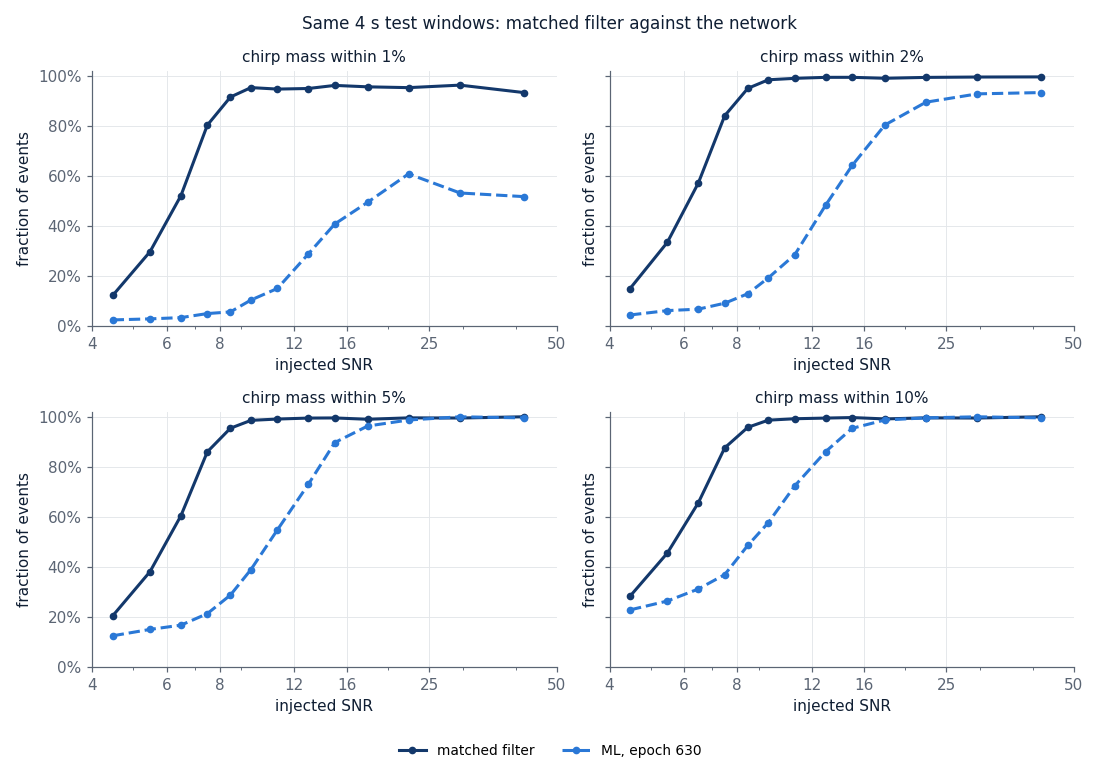
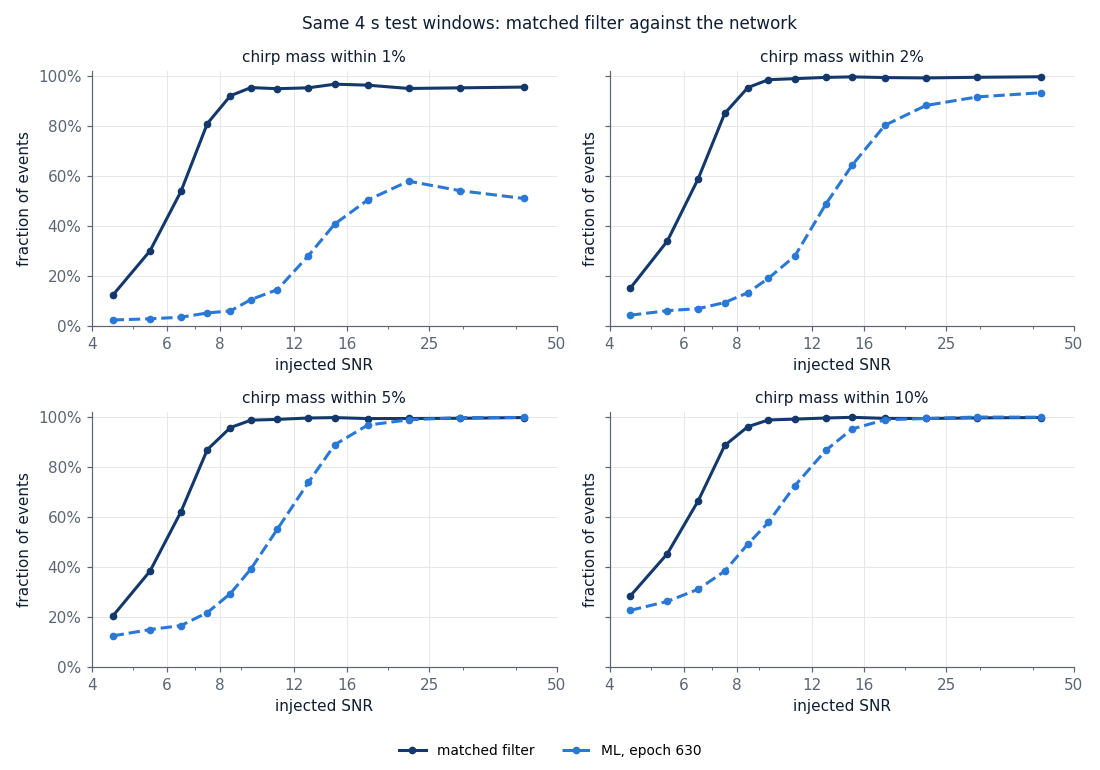
Add the uniform-SNR set to the matched-filter benchmark

diff --git a/docs/_updates/2026-10-07-matched-filter-benchmark.md b/docs/_updates/2026-10-07-matched-filter-benchmark.md
@@ -15,7 +15,7 @@ summary: >-
 
 The test windows were dumped from the network's own test pipeline: whitened
 4 s of H1 and L1 at 2048 Hz, O3b background, half the windows with an
-injection, power-law SNR (index −3) from 4 and from 8. The 630-epoch network
+injection, power-law SNR (index −3) from 4 and from 8, and uniform SNR from 4 to 50. The 630-epoch network
 and a matched filter then ran on exactly the same windows.
 
 - **Bank:** 613 waveforms drawn from the injection waveform set itself,
@@ -37,9 +37,11 @@ pipeline.
    src="/assets/img/bns/2026-10-07/mf_vs_ml_accuracy.png"
    alt="Fraction of events within 1, 2, 5 and 10 percent in chirp mass against injected SNR, matched filter against the network, same scale in every panel"
    label="Chirp mass accuracy against SNR"
-   caption="Both power-law test sets pooled, 12,834 events. Same y scale in every panel." %}
+   caption="All three test sets pooled, 19,251 events. Same y scale in every panel." %}
 
 <div markdown="1">
+
+Power-law sets pooled, 12,834 events:
 
 | SNR | events | matched filter, within 1 / 2 / 5 / 10% | network, within 1 / 2 / 5 / 10% |
 |---|---|---|---|
@@ -53,6 +55,9 @@ pipeline.
 
 </div>
 
+On the uniform set, overall 95% within 2% for the matched filter against 74%
+for the network; at SNR 8 to 12, 98 to 99% against 18 to 24%.
+
 The matched filter's 1% column stops at 95% only because the bank is spaced
 at 0.5% and has three mass ratios. The network never passes about 55% within
 1%, even above SNR 25, so it has a precision ceiling the data does not impose.
@@ -61,7 +66,7 @@ at 0.5% and has three mass ratios. The network never passes about 55% within
    src="/assets/img/bns/2026-10-07/mf_snr.png"
    alt="Left: matched-filter network SNR against injected SNR, median and one-sigma band, equal log axes with the 45 degree line. Right: distribution of the matched-filter score on empty data and on data with a weak signal"
    label="Recovered SNR, and the score on empty data against weak signals"
-   caption="Left: median and 16 to 84% band of the recovered network SNR against the injected SNR, equal axes, dotted line at 45°. Above SNR 10 it tracks the injected value a few percent low (bank and window mismatch); below about 7 it sits on the noise floor of about 6.3. Right: the best network SNR over the bank on windows with no signal and on windows with a signal at SNR 8 to 12, each normalized." %}
+   caption="Left: all three test sets, median and 16 to 84% band of the recovered network SNR against the injected SNR, equal axes, dotted line at 45°. Above SNR 10 it tracks the injected value a few percent low (bank and window mismatch); below about 7 it sits on the noise floor of about 6.3. Right: the best network SNR over the bank on windows with no signal and on windows with a signal at SNR 8 to 12, each normalized." %}
 
 ## Detection
 
@@ -77,7 +82,9 @@ at 0.5% and has three mass ratios. The network never passes about 55% within
 |---|---|---|
 | power law from SNR 4 | 0.74 | 0.63 |
 | power law from SNR 8 | 0.99 | 0.86 |
-| SNR 8 to 12 only | 0.98 | 0.77 |
+| uniform SNR 4 to 50 | 0.97 | 0.94 |
+| SNR 8 to 12 only (power law from 4) | 0.98 | 0.77 |
+| SNR 8 to 12 only (uniform) | 0.98 | 0.80 |
 
 </div>
 
